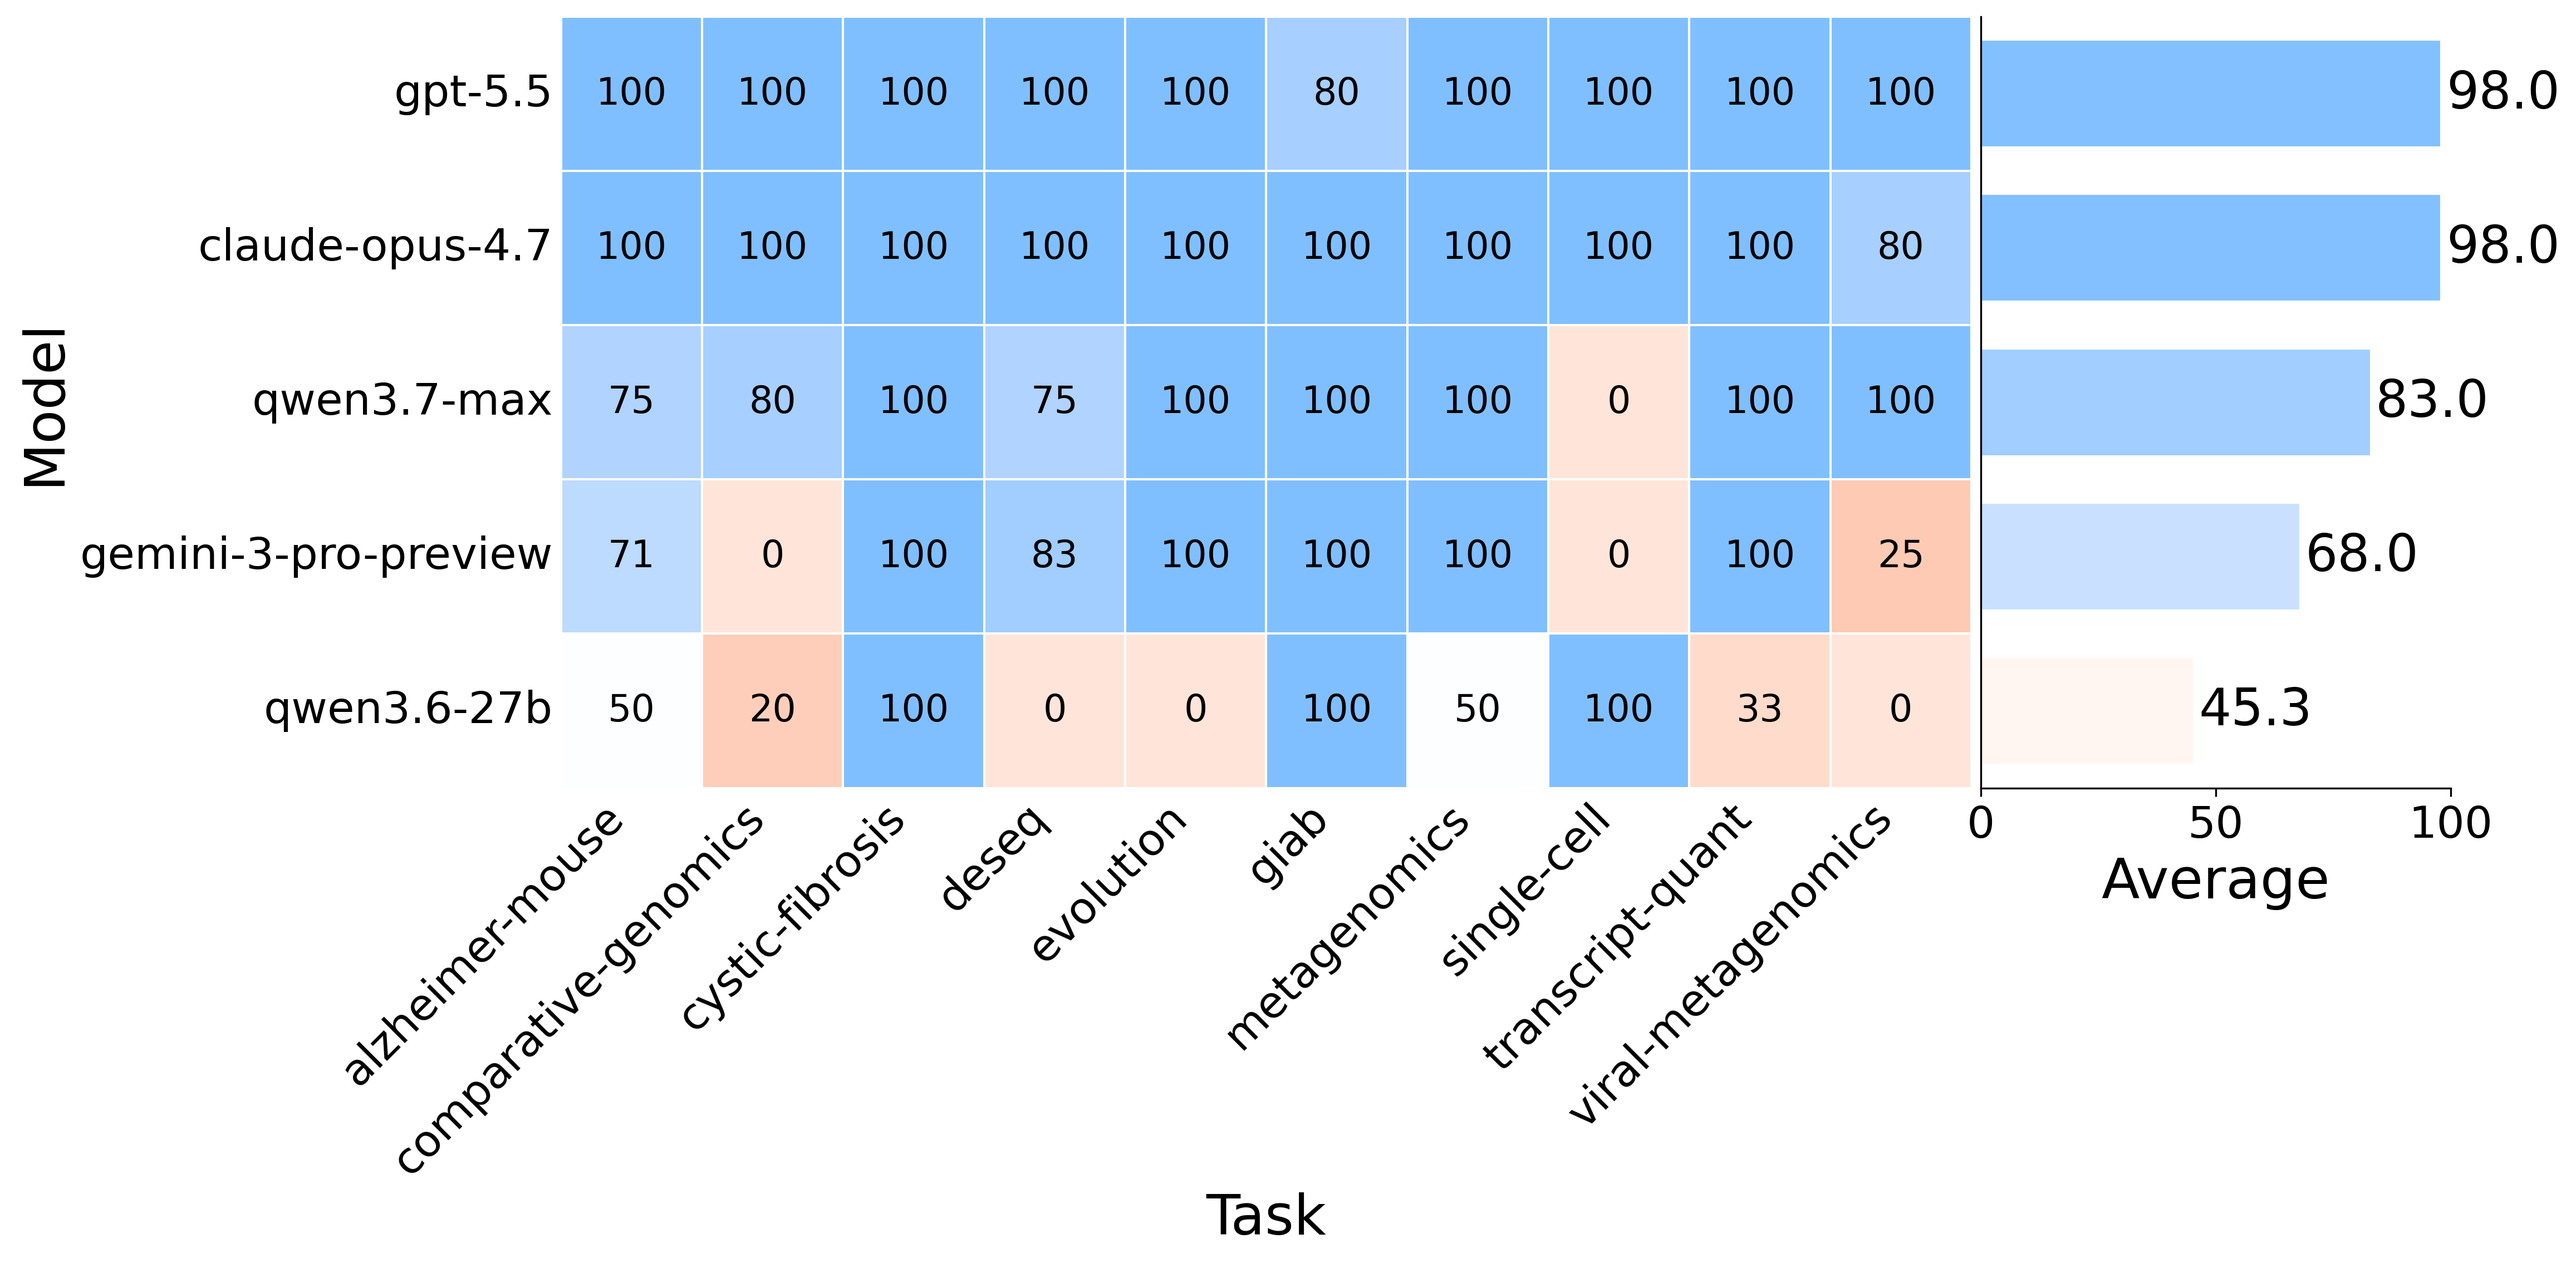
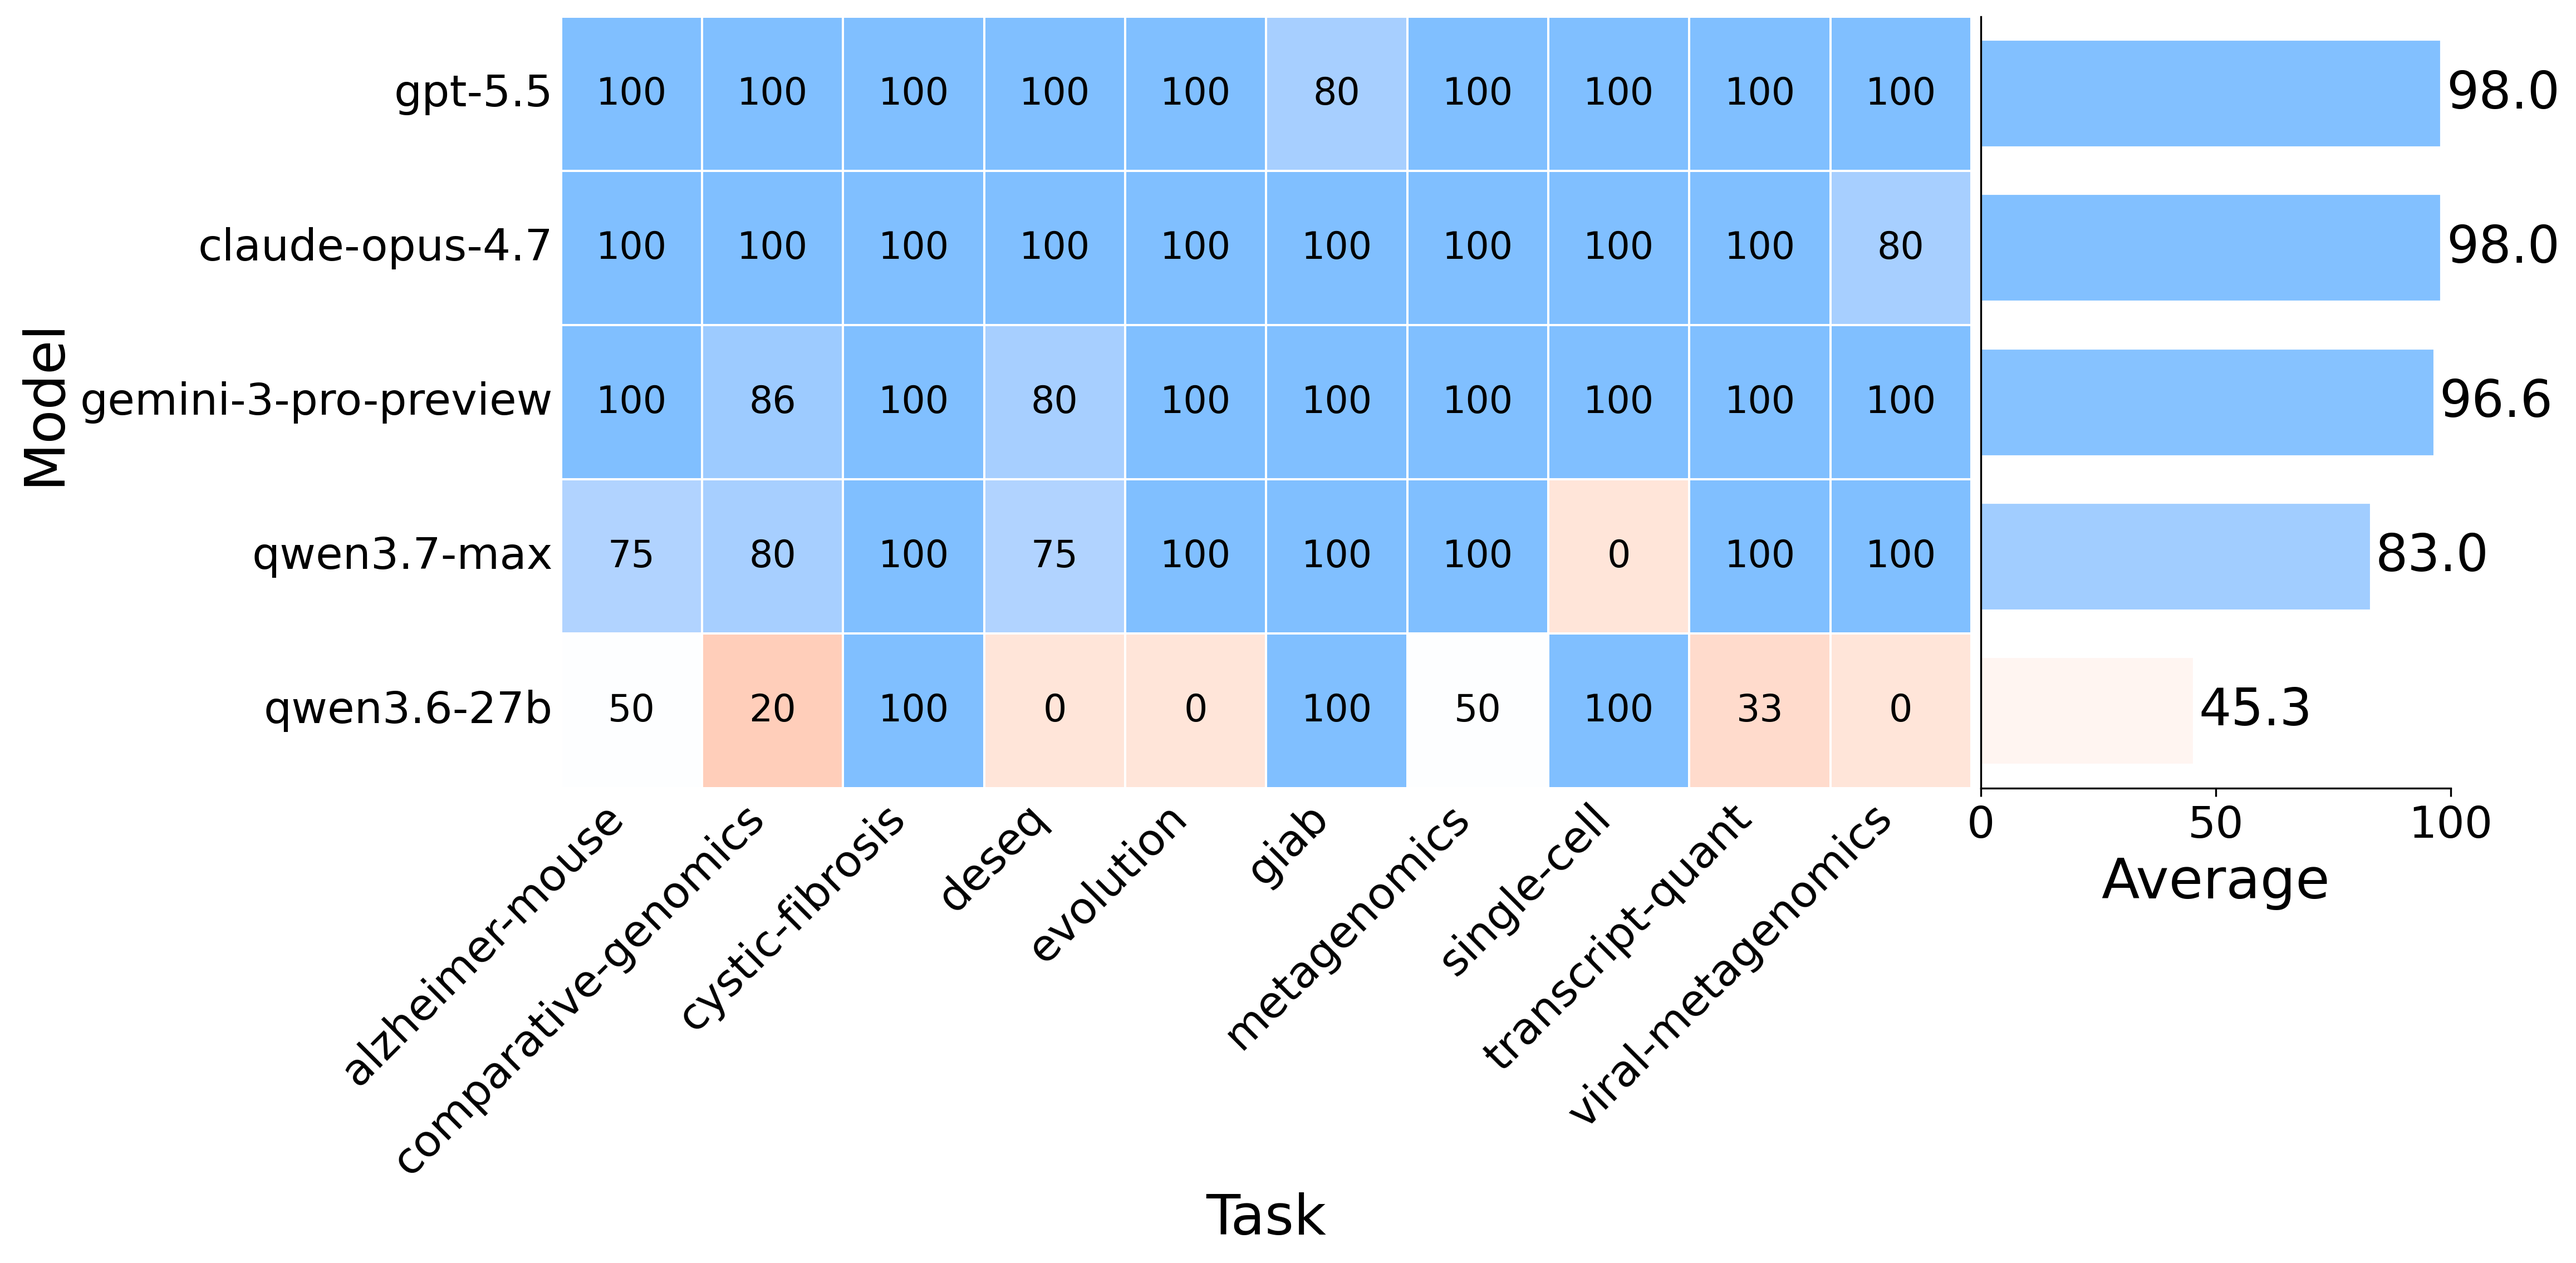
Use the correct harness result for gemini model

diff --git a/plotting/select_heatmap_models.py b/plotting/select_heatmap_models.py
@@ -14,7 +14,7 @@ DEFAULT_INPUTS = [
 SELECTED_MODELS = [
     "openrouter/openai/gpt-5.5",
     "openrouter/anthropic/claude-opus-4.7",
-    "openrouter/google/gemini-3-pro-preview",
+    "gpt-gemini",
     "openrouter/qwen/qwen3.7-max",
     "openrouter/qwen/qwen3.6-27b",
 ]
